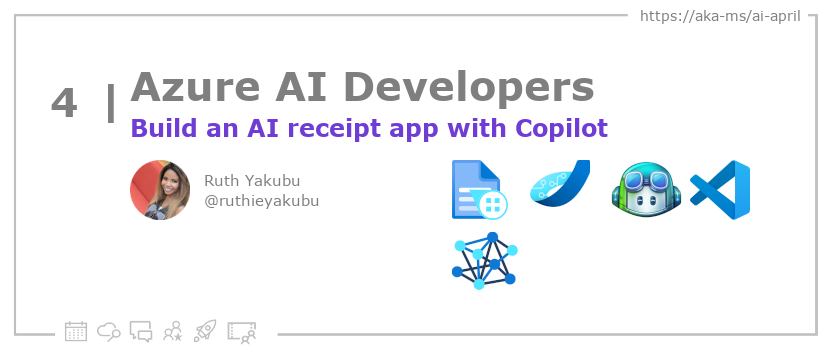
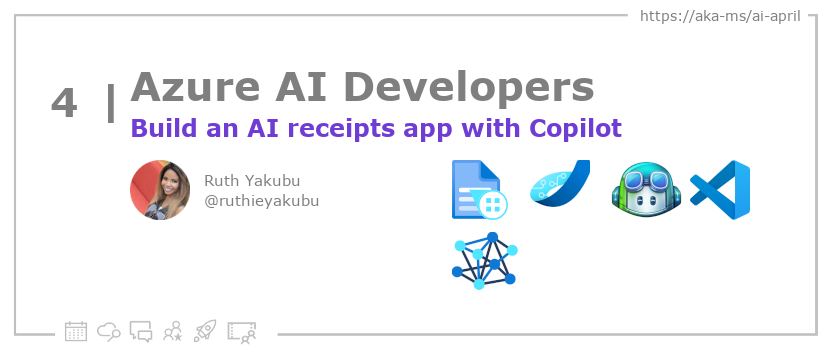
docs

Changed region(s): [[0.4365, 0.3143, 0.7482, 0.4]]

diff --git a/website/blog/2023-aia/2023-04-05-copilot-form-recognizer/index.md b/website/blog/2023-aia/2023-04-05-copilot-form-recognizer/index.md
@@ -1,6 +1,6 @@
 ---
 slug: 2023-day4
-title: "4. 🏁Build an AI receipt app with Copilot"
+title: "4. 🏁Build an AI receipts app with Copilot"
 authors: ['Ruth']
 draft: false
 hide_table_of_contents: false
@@ -10,7 +10,7 @@ keywords: ['Form-Recognizers', 'Azure-Applied-AI-Services', 'CoPilot', 'vscode',
 tags: ['azure-ai', 'azure-cognitive-services', '30-days-of-azure-ai']
 
 image: "https://azureaidevs.github.io/hub/img/2023/banner-day4.png"
-description: "Learn how to use Copilot to build an intelligent Receipt App powered by Azure Form Recognizer https://azureaidevs.github.io/hub/blog/2023-day4 #30DaysOfAzureAI #AzureAiDevs #AI #AzureCognitiveServices"
+description: "Learn how to use Copilot to build an intelligent Receipts App powered by Azure Form Recognizer https://azureaidevs.github.io/hub/blog/2023-day4 #30DaysOfAzureAI #AzureAiDevs #AI #AzureCognitiveServices"
 ---
 
 <head>  
@@ -21,7 +21,7 @@ description: "Learn how to use Copilot to build an intelligent Receipt App power
 
 - 📧 [Sign up for the Azure AI Developer Newsletter](https://aka.ms/azure-ai-dev-newsletter)
 - 📰 [Subscribe to the #30DaysOfAzureAI RSS feed](https://azureaidevs.github.io/hub/blog/rss.xml)
-- 📌 [Ask a question about this post on GitHub Discussions](https://github.com/AzureAiDevs/hub/discussions/categories/4-build-an-ai-receipt-app-with-copilot)
+- 📌 [Ask a question about this post on GitHub Discussions](https://github.com/AzureAiDevs/hub/discussions/categories/4-build-an-ai-receipts-app-with-copilot)
 - 💡 [Suggest a topic for a future post](https://github.com/AzureAiDevs/hub/discussions/categories/call-for-content)
 
 ## 🗓 Day _4_ of #30DaysOfAzureAI
@@ -31,7 +31,7 @@ The following description is also used for the tweet. So it should be action ori
 If you update the description, please update the description: in the frontmatter as well.
 -->
 
-**Learn how to use Copilot to build an intelligent Receipt App powered by Azure Form Recognizer**
+**Learn how to use Copilot to build an intelligent Receipts App powered by Azure Form Recognizer**
 
 <!-- README
 The following is the intro to the post. It should be a short teaser for the post.
@@ -92,4 +92,4 @@ Today's [article](https://techcommunity.microsoft.com/t5/ai-cognitive-services-b
 
 ## 🙋🏾♂ Questions?
 
-[Remember, you can ask a question about this post on GitHub Discussions](https://github.com/AzureAiDevs/Discussions/discussions/categories/4-build-an-ai-receipt-app-with-copilot)
+[Remember, you can ask a question about this post on GitHub Discussions](https://github.com/AzureAiDevs/Discussions/discussions/categories/4-build-an-ai-receipts-app-with-copilot)
